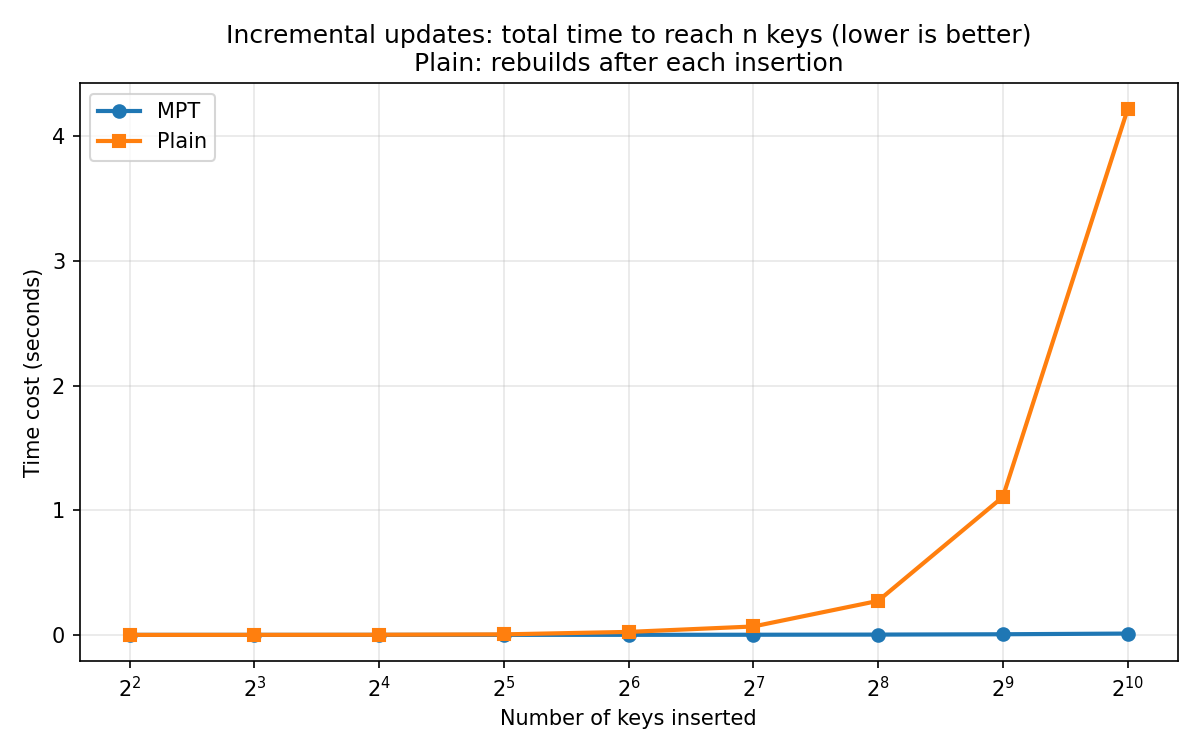
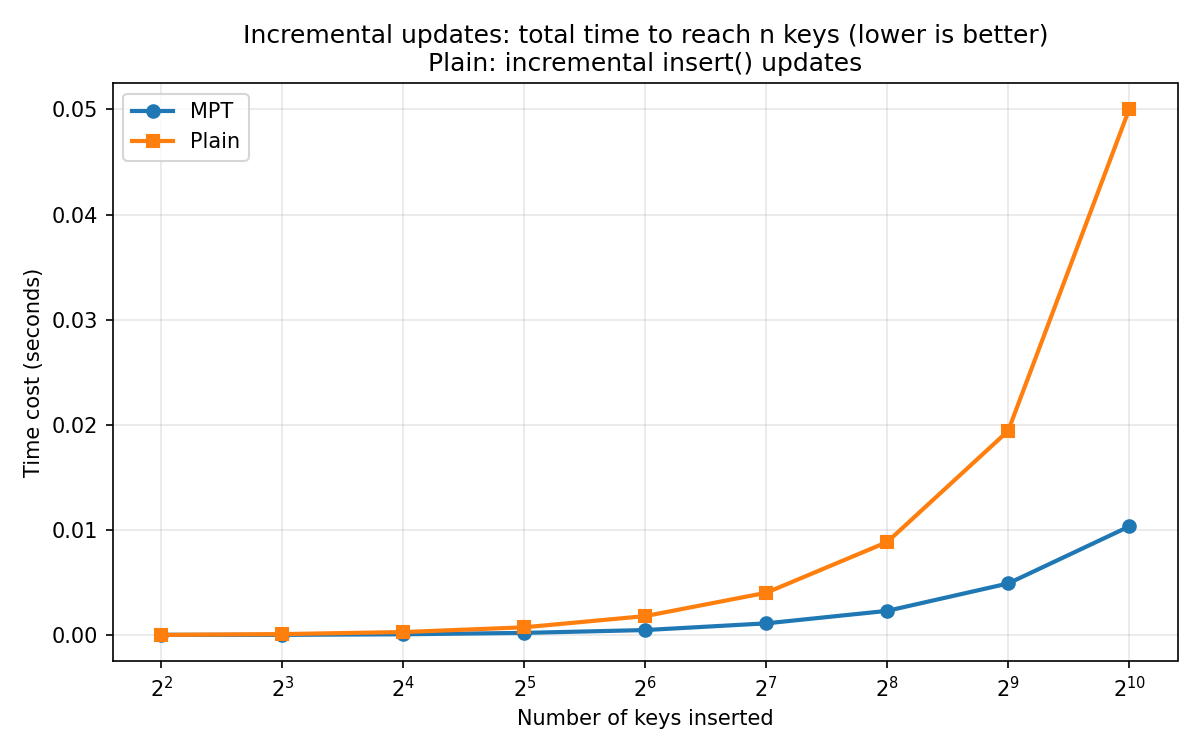
feat: add incremental insertion to plain Merkle tree

diff --git a/benchmark/plain_merkle.py b/benchmark/plain_merkle.py
@@ -50,9 +50,10 @@ class PlainBinaryMerkleTree:
         leaf_hashes = [_leaf_hash(k, v) for k, v in self.pairs]
         self.leaf_index: dict[bytes, int] = {k: i for i, (k, _) in enumerate(self.pairs)}
         cap = _next_pow2(len(leaf_hashes))
-        pad_n = cap - len(leaf_hashes)
-        for j in range(pad_n):
-            leaf_hashes.append(_padding_leaf(j))
+        # Padding leaves are deterministic by absolute leaf slot, so incremental inserts can
+        # replace the next padding slot without shifting the rest.
+        for slot in range(len(leaf_hashes), cap):
+            leaf_hashes.append(_padding_leaf(slot))
         self.layers: list[list[bytes]] = [leaf_hashes]
         cur = leaf_hashes
         while len(cur) > 1:
@@ -103,3 +104,55 @@ class PlainBinaryMerkleTree:
             i //= 2
         blob = b"".join(parts)
         return blob, len(parts)
+
+    def insert(self, key: bytes, value: bytes) -> None:
+        """
+        Insert or update ``(key, value)`` and update Merkle layers incrementally.
+
+        - Update existing key: O(log n) hash recomputation up the tree.
+        - Insert new key into next available leaf slot: O(log n) if capacity allows,
+          else rebuild to next power-of-two capacity (O(n)).
+        """
+        if key in self.leaf_index:
+            idx = self.leaf_index[key]
+            self.pairs[idx] = (key, value)
+            self.layers[0][idx] = _leaf_hash(key, value)
+            self._rehash_path_from_leaf(idx)
+            return
+
+        idx = len(self.pairs)
+        self.pairs.append((key, value))
+        self.leaf_index[key] = idx
+
+        if idx >= len(self.layers[0]):
+            self._rebuild_layers()
+            return
+
+        self.layers[0][idx] = _leaf_hash(key, value)
+        self._rehash_path_from_leaf(idx)
+
+    def _rehash_path_from_leaf(self, leaf_idx: int) -> None:
+        i = leaf_idx
+        for level in range(len(self.layers) - 1):
+            parent = i // 2
+            layer = self.layers[level]
+            left = layer[2 * parent]
+            right = layer[2 * parent + 1]
+            self.layers[level + 1][parent] = keccak256(left + right)
+            i = parent
+
+    def _rebuild_layers(self) -> None:
+        leaf_hashes = [_leaf_hash(k, v) for k, v in self.pairs]
+        self.leaf_index = {k: i for i, (k, _) in enumerate(self.pairs)}
+        cap = _next_pow2(len(leaf_hashes))
+        for slot in range(len(leaf_hashes), cap):
+            leaf_hashes.append(_padding_leaf(slot))
+        layers: list[list[bytes]] = [leaf_hashes]
+        cur = leaf_hashes
+        while len(cur) > 1:
+            nxt: list[bytes] = []
+            for i in range(0, len(cur), 2):
+                nxt.append(keccak256(cur[i] + cur[i + 1]))
+            layers.append(nxt)
+            cur = nxt
+        self.layers = layers

diff --git a/benchmark/plot_incremental_updates.py b/benchmark/plot_incremental_updates.py
@@ -4,9 +4,8 @@ Incremental insert benchmark: MPT vs a naive plain Merkle baseline.
 
 **MPT curve:** wall time to insert ``n`` keys from scratch (one ``insert`` per key).
 
-**Plain curve:** cumulative wall time if, after each new key, the whole
-``PlainBinaryMerkleTree`` is rebuilt from all keys so far (no incremental
-structure—typical cost when you only keep a static Merkle snapshot API).
+**Plain curve:** wall time to insert ``n`` keys from scratch using
+``PlainBinaryMerkleTree.insert`` (incremental O(log n) updates, occasional rebuild when capacity grows).
 
 Requires matplotlib (``pip install -e ".[dev]"`` or ``pip install matplotlib``).
 
@@ -60,15 +59,12 @@ def _time_mpt_n_inserts(pairs: list[tuple[bytes, bytes]]) -> float:
 
 
 def _time_plain_rebuild_after_each_insert(pairs: list[tuple[bytes, bytes]]) -> float:
-    """Sum of full tree rebuild times after each successive key (1..len(pairs))."""
-    acc: list[tuple[bytes, bytes]] = []
-    total = 0.0
-    for kv in pairs:
-        acc.append(kv)
-        t0 = perf_counter()
-        _ = PlainBinaryMerkleTree(acc)
-        total += perf_counter() - t0
-    return total
+    """Time to insert all keys into one incrementally updated plain Merkle tree."""
+    t0 = perf_counter()
+    mt = PlainBinaryMerkleTree([pairs[0]])
+    for k, v in pairs[1:]:
+        mt.insert(k, v)
+    return perf_counter() - t0
 
 
 def _measure_curves(
@@ -153,7 +149,7 @@ def main() -> None:
     ax.set_ylabel("Time cost (seconds)")
     ax.set_title(
         "Incremental updates: total time to reach n keys (lower is better)\n"
-        "Plain: rebuilds after each insertion"
+        "Plain: incremental insert() updates"
     )
     ax.legend(loc="upper left")
     ax.set_xscale("log", base=2)

diff --git a/mpt/__init__.py b/mpt/__init__.py
@@ -17,7 +17,6 @@ from mpt.interfaces import TrieKVStore
 from mpt.nibbles import common_prefix_length, key_to_nibbles, nibbles_to_bytes
 from mpt.nodes import Branch, Extension, Leaf
 from mpt.proof import verify_inclusion, verify_inclusion_trace
-from mpt.persistent import PersistentMPT, open_persistent
 from mpt.storage.memory import MemoryKVStore
 from mpt.storage.sqlite import SQLiteKVStore
 from mpt.store import (
@@ -30,6 +29,12 @@ from mpt.store import (
 from mpt.trie import MerklePatriciaTrie, snapshot_node
 from mpt.visualize import evolution_to_dot, trie_to_dot, trie_to_graph, try_matplotlib_show
 
+try:
+    from mpt.persistent import PersistentMPT, open_persistent
+except ModuleNotFoundError:
+    PersistentMPT = None  # type: ignore[assignment]
+    open_persistent = None  # type: ignore[assignment]
+
 __all__ = [
     "Branch",
     "EMPTY_TRIE_ROOT",
@@ -38,7 +43,6 @@ __all__ = [
     "MPT_HEAD_KEY",
     "MemoryKVStore",
     "MerklePatriciaTrie",
-    "PersistentMPT",
     "SQLiteKVStore",
     "TrieKVStore",
     "common_prefix_length",
@@ -58,7 +62,6 @@ __all__ = [
     "nibbles_to_bytes",
     "node_hash",
     "path_encoding",
-    "open_persistent",
     "persist_trie",
     "rlp_encode_node",
     "snapshot_node",
@@ -69,3 +72,8 @@ __all__ = [
     "verify_inclusion",
     "verify_inclusion_trace",
 ]
+
+if PersistentMPT is not None:
+    __all__.append("PersistentMPT")
+if open_persistent is not None:
+    __all__.append("open_persistent")
